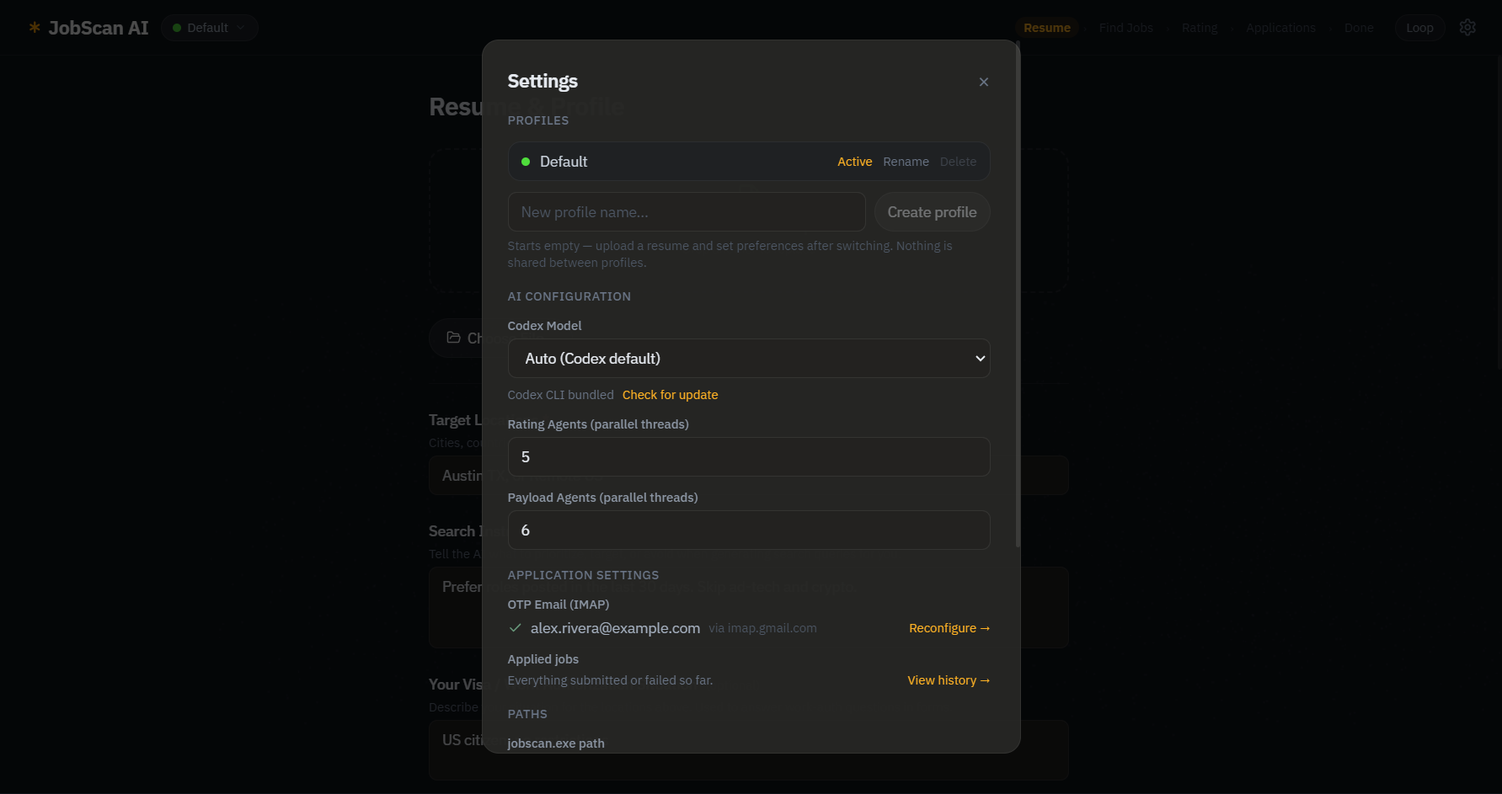
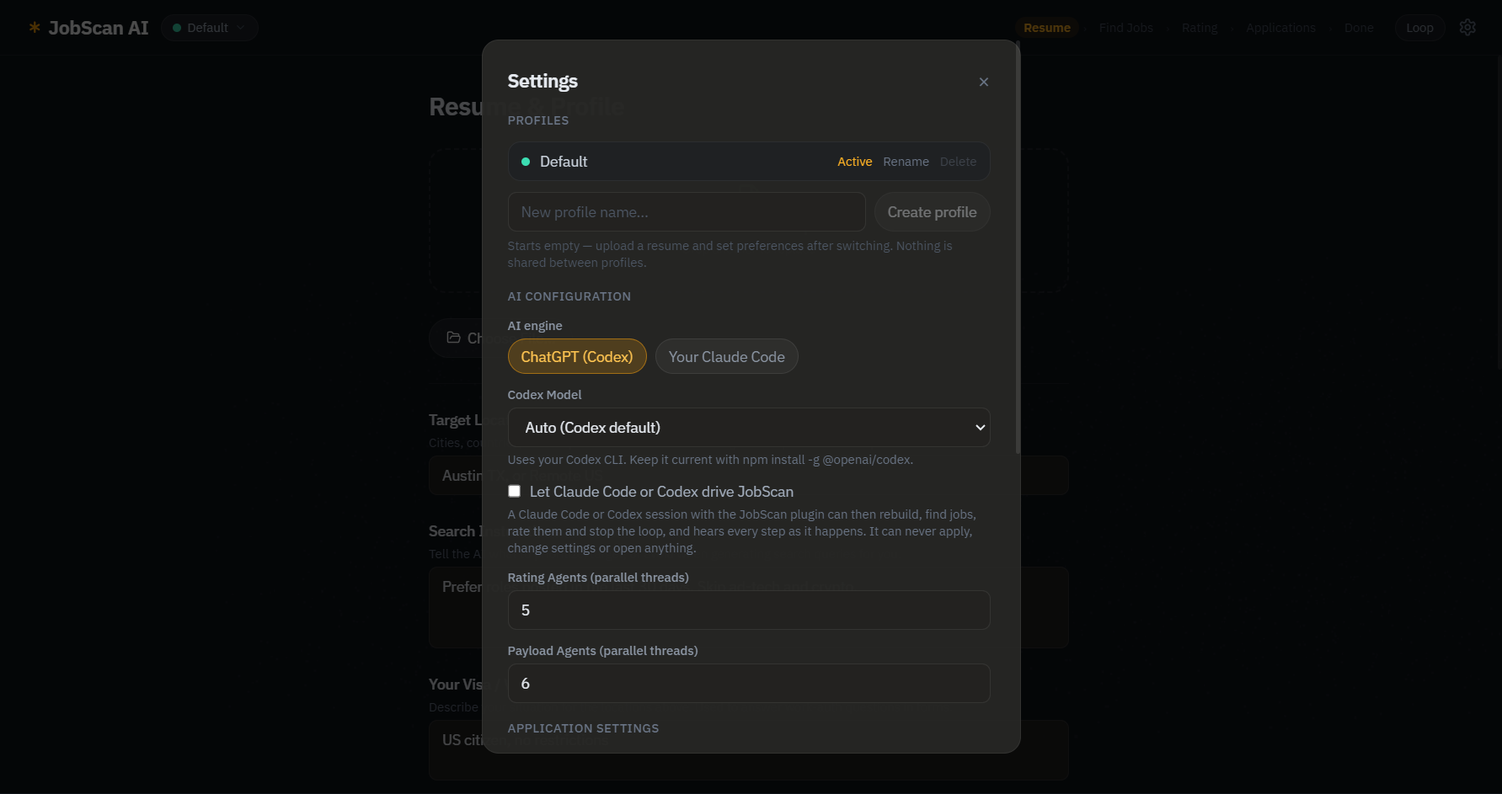
README: describe JobScan as it is now, with fresh screenshots
The README still read as a Codex-only app in many places. Checked against
the code, section by section:

- Tagline and "why it's different": the AI runs on ChatGPT (Codex CLI) or
  your own Claude Code; loop waits out AI limits; a new point on driving
  it from Claude Code or Codex, and on AGENTS.md; only your resume and
  JobScan's own cover letter can be uploaded.
- How it's built: the diagram shows the optional session and the plugin
  endpoint; a Plugin row; the "why your own CLI" notes cover Claude Code
  (one sealed run per call, ANTHROPIC_API_KEY removed, 5-minute limit).
- Find Jobs: each query is its own call carrying the earlier queries and
  what they added (true for both engines; there is no long-lived thread).
- Rating, answers, the sequence diagram and the agents note say "AI
  engine" instead of Codex. New "Only your own files go out" (upload_guard).
- Settings: rows in the panel's order; which Codex runs.
- Loop: Claude Code reports no usage windows, so with it the loop follows
  "try again in" or backs off; what counts as a broken setup; the
  panel's usage line is Codex-only.
- Section 13: the request after the command, progress notices, and the
  agent chip with a new screenshot (15-agent-chip.png).
- Cost table, test counts (48 unit files, 5 e2e specs, 15 Go, 27 Python),
  where things are kept (harness.json, AI sign-ins), environment
  variables (JOBSCAN_CLAUDE_BIN, CODEX_HOME, CLAUDE_CONFIG_DIR, the CDP
[…]

diff --git a/jobscan-app/scripts/readme-screenshots/readme-screenshots.spec.ts b/jobscan-app/scripts/readme-screenshots/readme-screenshots.spec.ts
@@ -6,10 +6,12 @@
  *   npx playwright test --config scripts/readme-screenshots/playwright.config.ts
  *
  * Every screen is rendered by the real app with SAMPLE data: a made-up
- * candidate and made-up companies. Nothing reaches Codex, jobscan or Chrome
- * (E2E_TEST=1), and the app runs on a throwaway data folder
- * (JOBSCAN_USER_DATA_DIR), so your own profile, resume and history are never
- * read or touched.
+ * candidate and made-up companies. Nothing reaches Codex, Claude Code,
+ * jobscan or Chrome (E2E_TEST=1), and the app runs on a throwaway data folder
+ * (JOBSCAN_USER_DATA_DIR) and Codex home, so your own profile, resume,
+ * history and sign-in are never read or touched. Codex counts as installed
+ * through the test stand-in (it is never asked anything), so the sign-in
+ * screen and Settings look the way they do for a user who has it.
  *
  * Screens whose state lives only in the main process (the rebuild progress,
  * loop mode, the IMAP status) are fed by swapping that one IPC handler for a
@@ -19,11 +21,13 @@ import { test, _electron as electron, ElectronApplication, Page } from '@playwri
 import path from 'path'
 import os from 'os'
 import fs from 'fs'
+import http from 'http'
 
 const APP_ROOT = path.resolve(__dirname, '..', '..')
 const OUT_DIR = path.resolve(APP_ROOT, '..', 'docs', 'screenshots')
 const DATA_DIR = fs.mkdtempSync(path.join(os.tmpdir(), 'jobscan-readme-shots-'))
 const CONFIG = path.join(DATA_DIR, 'config.json')
+const CODEX_STAND_IN = { command: process.execPath, args: [path.join(APP_ROOT, 'tests', 'unit', 'fixtures', 'fake-app-server.cjs')] }
 
 const W = 1440
 const H = 900
@@ -260,7 +264,10 @@ async function launch(): Promise<{ app: ElectronApplication; page: Page }> {
   const app = await electron.launch({
     args: [path.join(APP_ROOT, 'out', 'main', 'main.js')],
     cwd: APP_ROOT,
-    env: { ...process.env, E2E_TEST: '1', JOBSCAN_USER_DATA_DIR: DATA_DIR },
+    env: {
+      ...process.env, E2E_TEST: '1', JOBSCAN_USER_DATA_DIR: DATA_DIR,
+      CODEX_HOME: path.join(DATA_DIR, 'codex-home'), JOBSCAN_E2E_CODEX_COMMAND: JSON.stringify(CODEX_STAND_IN),
+    },
     timeout: 30_000,
   })
   const page = await app.firstWindow({ timeout: 20_000 })
@@ -288,6 +295,20 @@ async function seed(page: Page, p: Record<string, unknown>): Promise<void> {
   await page.waitForLoadState('domcontentloaded')
   await page.locator('header').waitFor({ state: 'visible', timeout: 15_000 })
   await page.waitForTimeout(900)   // screen entrance + ambient background settle
+}
+
+/** One authorised call to the app's harness endpoint, as the jobscan plugin makes it. */
+function harnessCall(method: string, route: string, body?: unknown): Promise<number> {
+  const { port, token } = JSON.parse(fs.readFileSync(path.join(DATA_DIR, 'harness.json'), 'utf-8')) as { port: number; token: string }
+  const data = body === undefined ? undefined : JSON.stringify(body)
+  return new Promise((resolve, reject) => {
+    const req = http.request({
+      host: '127.0.0.1', port, path: route, method,
+      headers: { authorization: `Bearer ${token}`, ...(data ? { 'content-type': 'application/json' } : {}) },
+    }, res => { res.resume(); res.on('end', () => resolve(res.statusCode ?? 0)) })
+    req.on('error', reject)
+    req.end(data)
+  })
 }
 
 async function shot(page: Page, name: string): Promise<void> {
@@ -418,6 +439,29 @@ test('screens', async () => {
     await page.locator('button[title="Loop mode"]').click()
     await page.waitForTimeout(500)
     await shot(page, '14-loop-panel')
+    await page.keyboard.press('Escape')
+
+    // 15 a Claude Code or Codex session driving JobScan: the header chip and its notes
+    await stub(app, 'loop:get-status', { ...LOOP_STATUS, phase: 'off', round: 0, stage: null, paused: [], excluded: [], history: [] })
+    let found = 0
+    await seed(page, {
+      ...BASE, appState: 'query_gen',
+      queryList: QUERIES.map((q, i) => ({ ...q, count: COUNTS[i] })),
+      queryGenResults: QUERIES.map((q, i) => { found += FOUND[i]; return { index: i, query: { ...q, count: COUNTS[i] }, found: FOUND[i], totalAfter: found } }),
+      candidates: POOL,
+    })
+    await page.evaluate(() => (window as unknown as { api: { invoke: (c: string, a?: unknown) => Promise<unknown> } }).api.invoke('harness:set', { enabled: true }))
+    for (let i = 0; i < 50 && !fs.existsSync(path.join(DATA_DIR, 'harness.json')); i++) await page.waitForTimeout(100)
+    for (const text of [
+      'Rebuilt the job database: 812 new jobs in 4 min.',
+      'Started Find Jobs from your resume.',
+      'Find Jobs is done: 6 searches, 362 jobs. They are being rated now; pick the ones you want in the window.',
+    ]) await harnessCall('POST', '/v1/notes', { text })
+    await harnessCall('GET', '/v1/status')
+    await page.getByRole('button', { name: /Agent connected/ }).waitFor({ timeout: 15_000 })
+    await page.getByRole('button', { name: /Agent connected/ }).click()
+    await page.waitForTimeout(500)
+    await shot(page, '15-agent-chip')
   } finally {
     await app.close()
   }

diff --git a/README.md b/README.md
@@ -4,7 +4,7 @@
 
 ### Your resume goes in. Rated jobs and submitted applications come out.
 
-**JobScan AI is a desktop app that searches about 13,700 company job boards, scores every match against your resume, and fills in and submits the applications you pick. It works in your own Chrome, and the AI runs on your own ChatGPT plan.**
+**JobScan AI is a desktop app that searches about 13,700 company job boards, scores every match against your resume, and fills in and submits the applications you pick. It works in your own Chrome, and the AI runs on the plan you already have: your ChatGPT account through the Codex CLI, or your own Claude Code.**
 
 No API key and no per-token bill. Search runs on your machine and costs no AI time at all.
 
@@ -44,8 +44,9 @@ No API key and no per-token bill. Search runs on your machine and costs no AI ti
 - **💸 Built to spend as little AI as possible.** Each run caps how many jobs it rates and remembers what it already scored. Forms are filled by ordinary code first, and the AI is called only to fix what that code could not. [Here's every cost decision](#-built-to-save-cost).
 - **🛡 Honest about what it can't do.** A CAPTCHA, or an email code that never arrives, doesn't count as a failure. The app marks the job **Needs you** and leaves the tab open, one click from done.
 - **📬 Reads email codes for you.** Greenhouse emails a security code after you submit. JobScan reads it from your mailbox over IMAP and types it in, even with several applications running at once.
-- **🔁 Runs unattended if you want.** Loop mode has a daily limit, a minimum time between rounds, and a score threshold. It pauses a job board that keeps showing CAPTCHAs, waits out Codex usage limits, and never re-applies to a job whose submission might already have gone in.
-- **🔒 Stored locally, sent only where it has to go.** Your resume, profile, history and mailbox settings live on your machine and are ignored by git. Two things leave it. Your resume, profile and the job postings go to the AI engine you chose (Codex under your ChatGPT account, or Claude Code under your Claude plan), so it can write queries, ratings and answers. Your answers and files go to the employers you apply to.
+- **🔁 Runs unattended if you want.** Loop mode has a daily limit, a minimum time between rounds, and a score threshold. It pauses a job board that keeps showing CAPTCHAs, waits out AI usage limits, and never re-applies to a job whose submission might already have gone in.
+- **🤖 Your Claude Code or Codex can drive it.** With the jobscan plugin, a Claude Code or Codex session can rebuild the database, find jobs, rate them and stop the loop while you talk to it, and it hears every step. It can't apply, and it never sees a job posting's text ([section 13](#13-let-claude-code-or-codex-drive-jobscan)). The repository also tells a fresh session how to set JobScan up for you ([AGENTS.md](AGENTS.md)).
+- **🔒 Stored locally, sent only where it has to go.** Your resume, profile, history and mailbox settings live on your machine and are ignored by git. Two things leave it. Your resume, profile and the job postings go to the AI engine you chose (Codex under your ChatGPT account, or Claude Code under your Claude plan), so it can write queries, ratings and answers. Your answers and files go to the employers you apply to, and the only files a form can get are your resume and the cover letter JobScan wrote for that job.
 
 ---
 
@@ -100,7 +101,7 @@ Each step is skipped when it is already up to date, so later starts are quick. R
 
 1. **Pick your AI and sign in** when the app asks: Codex (sign in with ChatGPT) or your own Claude Code.
 2. **Add your resume and profile.** That means target locations, work authorization, and the answers application forms ask for. The target location decides which markets the searches cover.
-3. **Find jobs.** The first database build downloads postings from about 13,700 public job boards into `jobscan/jobs.db`. It takes a while, and the database grows to a few GB.
+3. **Find jobs.** The first database build downloads postings from about 13,700 public job boards into `jobscan/jobs.db`. It takes several minutes (about 4 on a fast connection), and the database grows to about 2.5 GB.
 4. **Rate, pick and apply.** The app opens Chrome with its own profile (remote debugging on port 9222) and fills each form. Applications that need a CAPTCHA solved or other human input are left for you.
 5. **Optional: let your Claude Code or Codex session drive it.** Turn on **Settings → Let Claude Code or Codex drive JobScan**, install the jobscan plugin once, and ask the session to rebuild, find or rate jobs while you watch ([section 13](#13-let-claude-code-or-codex-drive-jobscan)). Applying always stays in the window.
 
@@ -110,7 +111,7 @@ Open Claude Code (`claude`) or Codex (`codex`) in the cloned folder and ask it t
 
 ### Try it without sending anything
 
-To watch the whole flow without sending anything, start the app with `JOB_AUTOMATOR_SUBMIT=0`. Every form is filled, and none is ever submitted.
+To watch the whole flow without sending anything, start the app with `JOB_AUTOMATOR_SUBMIT=0`. Every form is filled, and none is ever submitted. (`npm run dev` also opens DevTools next to the window; close it if you don't need it.)
 
 ```powershell
 # Windows (PowerShell)
@@ -155,9 +156,11 @@ flowchart LR
     Chrome["Your Chrome<br/>CDP :9222"]
     Mail["Your mailbox<br/>IMAP"]
     Boards["Greenhouse · Lever · Ashby<br/>public job-board APIs"]
+    Session["Optional: your Claude Code or Codex session<br/>jobscan plugin (MCP)"]
 
     Main -->|"spawn, JSON"| Go
-    Main <-->|"JSON-RPC over stdio"| Codex
+    Main <-->|"Codex: JSON-RPC over stdio<br/>Claude Code: one run per call"| Codex
+    Session -->|"status · 6 safe steps · notes<br/>127.0.0.1, token"| Main
     Fetch --> Boards
     Fetch --> DB
     Search --> DB
@@ -176,11 +179,13 @@ flowchart LR
 | **`jobscan` CLI** (`jobscan/cmd`, `jobscan/internal`) | Go | Downloading about 13,700 boards is a concurrency problem: hundreds of requests in flight, written into SQLite as they arrive. Go does that in one static binary, and the CLI works without the app. |
 | **Form filler** (`jobscan/job_application_automator`) | Python + Playwright over Chrome DevTools | Filling a form is browser automation. Playwright's Python API, attached to *your* Chrome over CDP, drives the three applicant-tracking systems with platform-specific code. |
 | **AI** | Your Codex CLI, or your Claude Code | Behind one interface (`electron/ai-engine.ts`). Codex: `codex app-server` over JSON-RPC, one long-lived process, a fresh read-only ephemeral thread per task. Claude Code: one isolated, tool-less `claude -p` run per task. Neither is bundled. |
+| **Plugin** (`jobscan-harness/`) | Node.js, no dependencies | Lets a Claude Code or Codex session drive the app: an MCP server with four tools, a skill, and (in Claude Code) a feed of notices. It talks only to the app's local endpoint, and only while you allow it in Settings. |
 
 <details>
-<summary><b>Why the app drives the Codex CLI instead of calling an API directly</b></summary>
+<summary><b>Why the app runs your own Codex or Claude Code instead of calling an API directly</b></summary>
 
-- **No key and no meter.** Signing in with ChatGPT means the work counts against a plan you already pay for, with nothing extra to set up or bill.
+- **No key and no meter.** Signing in with ChatGPT, or using the Claude Code you already have, means the work counts against a plan you already pay for, with nothing extra to set up or bill.
+- **Claude Code, one sealed run per call.** Each call is one `claude -p` run with no tools, no MCP servers, none of your settings, hooks, plugins or memory, one turn, in an empty private folder ([section 1](#1-sign-in)). `ANTHROPIC_API_KEY` is removed from that run's environment, so a stray API key can't quietly replace your Claude plan. A run that gives no reply within 5 minutes is stopped and counts as a failed call.
 - **One process, many threads.** `codex-client.ts` starts `codex app-server` once and keeps it running. Each query, rating batch or set of answers gets its own `thread/start` with `ephemeral: true`, `sandbox: "read-only"` and `approvalPolicy: "never"`, so no task ever sees another task's context. Turns run at `effort: "medium"` with `summary: "none"`, which skips paying for reasoning summaries nobody reads.
 - **Your own Codex, found where npm put it.** Nothing is bundled or downloaded: `codex-locate.ts` finds the native binary inside your global `@openai/codex` install (nested or flat npm layout) the way `codex.js` does, or uses the path you set in Settings. Keep it current with `npm install -g @openai/codex`; Settings shows the version in use. If you used an earlier JobScan, the Codex it downloaded for itself stays in use while it is newer than yours (or you have none), so upgrading never moves you to an older Codex; once yours catches up, yours is used.
 - **No console flash on Windows.** The app runs the native `codex.exe` directly rather than through the `codex.js` wrapper or the `.cmd` shim, so its `windowsHide` setting takes effect. It also runs a new binary once in a worker thread first (`binary-warmup.ts`): an antivirus scan of a never-seen `codex.exe` froze the window for 11 seconds before this fix.
@@ -207,7 +212,7 @@ flowchart TD
     O --> D
 ```
 
-Every stage stores a hash of its inputs. If you go **Back** and **forward** with nothing changed, the stage replays its saved result instead of running again. If an input changes (your resume, profile, the Codex model or a prompt), that stage and everything after it are cleared and run fresh. ([More on this](#-built-to-save-cost).)
+Every stage stores a hash of its inputs. If you go **Back** and **forward** with nothing changed, the stage replays its saved result instead of running again. If an input changes (your resume, profile, the AI engine or its model, or a prompt), that stage and everything after it are cleared and run fresh. ([More on this](#-built-to-save-cost).)
 
 ---
 
@@ -215,9 +220,9 @@ Every stage stores a hash of its inputs. If you go **Back** and **forward** with
 
 ### 1. Sign in
 
-<img src="docs/screenshots/01-sign-in.png" alt="Sign-in screen with a 'Login with ChatGPT' button" width="100%">
+<img src="docs/screenshots/01-sign-in.png" alt="Sign-in screen with a 'Login with ChatGPT' button and a 'Use your Claude Code instead' link" width="100%">
 
-With **ChatGPT (Codex)**, click **Login with ChatGPT**. The app runs your Codex CLI's `codex login`, which opens the ChatGPT sign-in page in your browser. When you come back, the app checks for `~/.codex/auth.json` and moves on to your profile. If the Codex CLI isn't installed, the screen says how to install it (`npm install -g @openai/codex`).
+With **ChatGPT (Codex)**, click **Login with ChatGPT**. The app runs your Codex CLI's `codex login`, which opens the ChatGPT sign-in page in your browser. When you come back, the app checks for `~/.codex/auth.json` (or `$CODEX_HOME/auth.json`) and moves on to your profile. If the Codex CLI isn't installed, the screen says how to install it (`npm install -g @openai/codex`).
 
 With **your Claude Code**, there is nothing to sign in to here: JobScan uses the Claude Code already signed in on this computer. If it isn't signed in, the screen tells you to run `claude` in a terminal and type `/login`, then **Check again**. Each screen links to the other engine.
 
@@ -297,7 +302,7 @@ All the searching happens against **`jobs.db`**, a local SQLite database built b
 
 This is the core idea of JobScan: **the AI decides *what* to search for, and the search itself runs locally on the database.**
 
-A Codex thread reads your resume, target locations and search instructions, and writes **one query at a time** as JSON (`{name, flags, description}`). The flags use the `jobscan search` syntax. The moment a query arrives, the app:
+The AI engine reads your resume, target locations and search instructions, and writes **one query at a time** as JSON (`{name, flags, description}`). Each query is its own call, and it carries every earlier query with how many new jobs that query added, so the model builds on what the pool already holds. The flags use the `jobscan search` syntax. The moment a query arrives, the app:
 
 1. **Checks it by running it.** The CLI parses the flags and returns the *live match count*. Bad JSON, unknown flags or Boolean syntax errors go straight back to the model with the exact error message, so it can fix the query (up to 3 retries).
 2. **Rejects useless queries.** `0` matches means "broaden it". Fewer than **40** matches means it's too narrow to deserve a slot, so the model gets **one** retry to widen it, and the second answer is accepted whatever it matches (a small platform or market may really be that thin). After 3 abandoned slots the run stops: a model failing that often is failing systematically.
@@ -354,7 +359,7 @@ That's why the query writer is told to aim for **about 200 matches per query**. 
 
 The **rating engine** runs in the background. It starts as soon as the first query adds jobs to the pool, so by the time you click **Evaluate Matches →** most of the jobs are already scored.
 
-- **Batches of 20 jobs per Codex call**, with **5 calls running at once** by default (change it in Settings → *Rating Agents*).
+- **Batches of 20 jobs per AI call**, with **5 calls running at once** by default (change it in Settings → *Rating Agents*). With Claude Code, that is five `claude -p` runs at a time.
 - Each job is shown with its title, company, location, workplace type, employment type, posted salary (if any), and the **first 4,000 characters** of its description.
 - Alongside it, a **candidate profile**: target locations, work authorization, sponsorship need, expected salary, clearance and your search instructions. It does **not** include your EEO answers.
 
@@ -407,7 +412,7 @@ sequenceDiagram
     participant App as Electron (agent)
     participant Go as jobscan apply
     participant Ex as Extractor (Python)
-    participant Cx as Codex
+    participant Cx as AI engine
     participant Fi as Filler (Python)
     participant Ch as Your Chrome
 
@@ -434,7 +439,7 @@ sequenceDiagram
 
 **Reading the form.** The platform-specific extractor opens the apply URL in your Chrome and records every field: its label, type, whether it's required, and its options. Forms are read one platform at a time, three at once. Long typeahead lists are sampled and marked `options_truncated`, so the answer writer knows the list isn't complete.
 
-**Writing the answers.** One Codex call per job, with the job's title, company and description, your profile and resume, and the field list. The rules it must follow came from real mistakes:
+**Writing the answers.** One AI call per job, with the job's title, company and description, your profile and resume, and the field list. The rules it must follow came from real mistakes:
 
 - **Dropdown answers are copied character for character** from the listed options, and the closest *category* is allowed when your exact answer isn't listed ("Applied Mathematics" → "Mathematics").
 - **Names are never approximated.** A school or employer that isn't in the list is never swapped for a similar-looking one. The model picks **Other** and types the real name in the follow-up box, or leaves the field empty. An empty answer is honest and you can fix it; a wrong school is a false statement that gets submitted.
@@ -444,6 +449,8 @@ sequenceDiagram
 - An answer set with **no answers at all** counts as a failed turn, not a hard form. It never gets filled from defaults alone.
 
 **Filling the form.** The filler types, selects, clicks and uploads, then **reads every value back**: three Ashby comboboxes once reported success on values that never actually took. "Yes/No" answers to checkboxes go through one shared conversion (`answer_values.py`), because `bool("No")` is `True` in Python and once ticked a sponsorship box the candidate had answered "No" to.
+
+**Only your own files go out.** A file field gets your resume, or a file JobScan wrote for that job (the cover letter), and nothing else (`upload_guard.py`). The answers are written by a model that has just read an untrusted posting, so a file path in its answers is dropped: a posting can't talk it into attaching your sign-in token, mailbox password or settings. This holds even with `JOB_AUTOMATOR_SUBMIT=0`, because a file is attached before anything is submitted.
 
 **Checking it submitted.** Every platform uses one shared check (`submission_signals.py`): **only past-tense confirmation counts**, like "application submitted" or "your application has been received". The future-tense "will be submitted" doesn't count, and neither does a bare "submit". A missed confirmation would send a finished application to the repair agent, which would apply a second time. A false one would record an application that never went in.
 
@@ -465,7 +472,7 @@ In a normal run, successful tabs close and unsuccessful ones **stay open** so yo
 <details>
 <summary><b>"6 agents", "5 slots", "up to 9 tabs": how the numbers fit together</b></summary>
 
-- **Payload agents (default 6, set in Settings).** These are concurrent workers in the app. Each one claims a job, asks Codex for answers and hands the filled payload to `jobscan apply submit`.
+- **Payload agents (default 6, set in Settings).** These are concurrent workers in the app. Each one claims a job, asks the AI engine for answers and hands the filled payload to `jobscan apply submit`.
 - **Fill slots (5, set in Go).** At most five jobs are *actively driving the browser* at once. A sixth submission waits for a slot. Jobs in the repair phase leave a `.recovery_active` marker and **don't count** against the five, because they mostly wait on the model, not the browser. A `filling` row untouched for 30 minutes is treated as dead and its slot is freed, so a crashed filler can never block the queue.
 - **Loop runs use at most 5 agents.** A loop job has a fill deadline. A job waiting for a slot would use up that deadline without ever starting, so loop runs never have more agents than slots.
 - **Up to 9 tabs** means six application agents plus three extractors.
@@ -538,13 +545,13 @@ The Done screen sorts the run into **Submitted**, **Needs you** (with **Finish i
 
 ### 11. Settings
 
-<img src="docs/screenshots/11-settings.png" alt="Settings panel: profiles, Codex model, rating and payload agent counts, OTP email, applied jobs, paths" width="100%">
+<img src="docs/screenshots/11-settings.png" alt="Settings panel: profiles, the AI engine (ChatGPT/Codex or your Claude Code), the Codex model and which Codex runs, the switch that lets Claude Code or Codex drive JobScan, rating and payload agent counts" width="100%">
 
 | Setting | What it does |
 |---|---|
 | **Profiles** | Create, rename, delete and switch personas. *A new profile starts empty: upload a resume and set preferences after switching.* Shared between profiles: the jobs database, agent counts, and the paths below. |
-| **Codex Model** | With Codex: **Auto (Codex default)** or any model your Codex sign-in offers. The list comes from the Codex CLI itself. Changing the model **invalidates cached queries, ratings and answers**, so the next run really uses the new model. The change applies from the next turn, without restarting Codex. |
 | **AI engine** | **ChatGPT (Codex)** or **Your Claude Code**. Switching is refused while anything runs or the loop is on. Switching engines re-runs cached searches and ratings with the new engine. |
+| **Codex Model** | With Codex: **Auto (Codex default)** or any model your Codex sign-in offers. The list comes from the Codex CLI itself. Changing the model **invalidates cached queries, ratings and answers**, so the next run really uses the new model. The change applies from the next turn, without restarting Codex. Below it, Settings says which Codex runs: your own, with its version, or the newer copy an earlier JobScan downloaded. |
 | **Claude model** | With Claude Code: its default, or `sonnet`, `opus`, `haiku` or any model id your Claude Code accepts. Part of the cache keys, like the Codex model. |
 | **Let Claude Code or Codex drive JobScan** | Lets a Claude Code or Codex session with the jobscan plugin start the safe steps and hear what happens ([section 13](#13-let-claude-code-or-codex-drive-jobscan)). Off by default. |
 | **Rating Agents** | Rating batches running at once (default **5**). Changes speed, not results, so it isn't part of any cache key. |
@@ -571,8 +578,8 @@ Changes apply from the next round. **Stop after this round** lets the current ro
 ```mermaid
 flowchart TD
     P{"Signed in? resume?<br/>saved searches? jobscan built?"} -- no --> STOP["Stop with reason"]
-    P -- yes --> L{"Codex limit hit?"}
-    L -- yes --> W["Wait until the 5-hour or weekly<br/>window resets, plus 2 min"]
+    P -- yes --> L{"AI usage limit hit?"}
+    L -- yes --> W["Wait until the limit resets<br/>(Codex: its 5-hour or weekly window, plus 2 min)"]
     L -- no --> RB["Rebuild database"]
     RB --> RG{"Resume / profile / model<br/>changed?"}
     RG -- yes --> NQ["Regenerate saved searches"]
@@ -596,12 +603,12 @@ flowchart TD
 - **Scores carry over.** A job rated under the same resume, profile, model and prompt keeps its score from round to round.
 - **Never twice.** A job is skipped if it was already applied to, if a normal run left it open for you (you may have finished it by hand), or if it was **excluded**. Exclusions cover CAPTCHA, needs a person, posting closed, a fill cut off mid-way, and a Submit with no confirmation, since that one may have gone in. Other failures get at most **2 attempts**.
 - **Paused after repeated CAPTCHAs.** Two CAPTCHAs on one platform with no submission between them pause that platform for **3 h**. The pause doubles on each repeat, up to **24 h**. Only a successful submission resets the count.
-- **Waits out Codex limits.** A usage limit stops the round, and the loop sleeps until the exhausted window (5-hour or weekly) resets, plus a 2-minute margin. If the reset time is unknown, it reads "try again in…" from the error, or backs off 1 → 2 → 4 → 8 → 16 → 24 h. A job board's own `429` is never mistaken for a Codex limit.
-- **Stops when the setup is broken.** A round counts as *failed* when Codex fails on every application, or when 3 or more applications all fail the way a broken setup does (for example, Chrome unreachable). **Three failed rounds in a row stop the loop.** A round that submitted anything never counts as failed. Attempts charged during a failed round are given back.
+- **Waits out usage limits.** A usage limit stops the round. With Codex, the loop reads your 5-hour and weekly windows and sleeps until the exhausted one resets, plus a 2-minute margin. Claude Code doesn't report its windows, so with it (and whenever the reset time is unknown) the loop reads "try again in…" from the error, or backs off 1 → 2 → 4 → 8 → 16 → 24 h. A job board's own `429` is never mistaken for an AI limit, and neither is a form that merely mentions Claude and a rate limit.
+- **Stops when the setup is broken.** A round counts as *failed* when the AI engine fails on every application (for example, Codex or Claude Code missing or signed out), or when 3 or more applications all fail the way a broken setup does (for example, Chrome unreachable). **Three failed rounds in a row stop the loop.** A round that submitted anything never counts as failed. Attempts charged during a failed round are given back.
 - **Time limits.** A round is capped at **3 hours** and a single fill at **25 minutes**.
 - **Keeps the system from suspending the app while it runs** (Electron `powerSaveBlocker`), and releases that hold when it stops.
 
-The panel also shows **today's count**, **Codex usage** (5-hour and weekly windows), **paused platforms**, the **jobs the loop will not pick again** (with reasons), and the **last rounds**: new, rated, picked, sent, failed, skipped, and a note such as *Codex usage limit*.
+The panel also shows **today's count**, **Codex usage** (5-hour and weekly windows, with the Codex engine), **paused platforms**, the **jobs the loop will not pick again** (with reasons), and the **last rounds**: new, rated, picked, sent, failed, skipped, and a note such as *Codex usage limit* or *Claude Code usage limit*.
 
 <img src="docs/screenshots/13-loop-chip.png" alt="Header chip reading 'Round 6 · Applying' while loop mode runs on the board" width="100%">
 
@@ -622,7 +629,11 @@ codex plugin add jobscan@jobscan
 
 From a local clone, give its folder instead of `tarunmovva/JobScanAI`.
 
-Then type `/jobscan:jobscan` in Claude Code, or `$jobscan:jobscan` in Codex. The session can do six things, each only where and when its button in the window works: **rebuild the job database**, **cancel a rebuild**, **find jobs**, **find more** ("remote Rust roles"), **rate the jobs**, and **stop the loop**. It hears every step, every click you make in the window and every AI call as short notices (Claude Code through the plugin's feed, Codex by waiting for them), and it can leave notes that appear in a chip in JobScan's header.
+Then type `/jobscan:jobscan` in Claude Code, or `$jobscan:jobscan` in Codex, followed by what you want ("rebuild the database and find me remote Rust roles"). The session can do six things, each only where and when its button in the window works: **rebuild the job database**, **cancel a rebuild**, **find jobs**, **find more** ("remote Rust roles"), **rate the jobs**, and **stop the loop**. It hears every step, its progress (boards fetched, jobs rated), every click you make in the window and every AI call as short notices (Claude Code through the plugin's feed, Codex by waiting for them), and it can leave notes for you.
+
+<img src="docs/screenshots/15-agent-chip.png" alt="The header chip reading 'Agent connected', open on the notes a Claude Code session left while it rebuilt the database and found jobs" width="100%">
+
+The chip in JobScan's header shows whether a session has been in touch in the last minute (**Agent connected**, or **Waiting for your agent**). Click it to read the session's notes and the steps it started.
 
 What it can't do is the point:
 
@@ -638,7 +649,7 @@ All AI usage counts against your plan (your Codex allowance, or your Claude plan
 
 | Where | What it does | Why it matters |
 |---|---|---|
-| **Search** | Codex writes the queries; **SQLite FTS5 runs them locally** | Retrieval costs no tokens. Thousands of postings are filtered without a model reading any of them. |
+| **Search** | The AI writes the queries; **SQLite FTS5 runs them locally** | Retrieval costs no tokens. Thousands of postings are filtered without a model reading any of them. |
 | **Pool budget** | At most **500 jobs or 10 queries**; ~200 matches per query is the target; under 40 matches is rejected | The pool size *is* the rating bill. |
 | **Top 100 per query, deduplicated, 3 per company** | Without this, 14–18% of every slice repeated a posting already seen, and one employer took 19 of 100 places | No paying to rate the same job twice, or twenty postings from one company. |
 | **Applied jobs filtered before the pool** | Removed before rating, not after | No tokens spent scoring a job you can't apply to. |
@@ -649,13 +660,13 @@ All AI usage counts against your plan (your Codex allowance, or your Claude plan
 | **Searches regenerated only when inputs change** | A rebuild alone doesn't trigger new queries | Saves the query-writing calls every loop round. |
 | **Prompt revisions in the cache key** | Bumping a prompt version invalidates only what that prompt produced | A prompt change never forces an unrelated stage to run again. |
 | **Settings that change speed only aren't in cache keys** | Agent counts change speed, not output | Changing them never throws away results. |
-| **Fresh read-only threads, `effort: medium`, `summary: none`** | Each task's context is isolated, and nobody pays for reasoning summaries | No context building up across tasks. |
+| **Every call starts clean** | Codex: a fresh read-only thread at `effort: medium` with `summary: none`. Claude Code: one turn, no tools, none of your settings or memory | No context building up across tasks, and nobody pays for reasoning summaries. |
 | **Ordinary code fills first; AI only to fix** | Most forms never touch the repair agent | The expensive path runs only where it's needed. |
 | **Focus dossier** | The repair agent starts with the exact broken controls | About 200 tokens instead of a 4,000–10,000-token page snapshot. |
 | **Purpose-built form tools** | 3 tools replace snapshot → click → snapshot loops | Generic calls took 7.3 s each, and snapshots were 51% of all tool output. |
 | **Past-tense confirmation check** | Correctly recognizes submitted pages | A missed "Thank you for applying" once triggered a 125k-token repair (and nearly a duplicate application). |
 | **Empty answer set = failed turn** | Never filled from defaults | One empty answer set once led to a 67 s repair on a form whose name and email had been left blank. |
-| **Codex limits waited out by reset time** | The loop sleeps until the window resets, not on a blind retry timer | No wasted retries against a limit. |
+| **Usage limits waited out** | With Codex, the loop sleeps until the window resets; otherwise it follows the error's "try again in", or backs off up to a day | No wasted retries against a limit. |
 | **Midnight wait** | When today's limit is used up, the next round waits for local midnight | No hourly rebuilds when nothing can be picked. |
 
 ---
@@ -669,7 +680,7 @@ A submitted application can't be undone, so the app's record of it must never be
 - **Quitting asks first.** Closing the app during a manual run asks whether to stop the run. Fillers used to keep going, and could submit, after the app had gone.
 - **A cut-off fill counts as possibly sent.** If a fill is stopped after it may have submitted, the filler's result file is checked, and the job is recorded as applied when it says so. That way nobody applies twice.
 - **A smooth window.** Bulk data (the job pools, about 3.3 MB each) lives in separate files next to `config.json`, and the parsed store is cached in memory. Before this, a single store read took about 85 ms on the window's thread and the board froze during runs. The history, which can't be rebuilt, stays in `config.json`, which is written atomically.
-- **Tested hard.** 40 unit-test files and 4 Playwright end-to-end specs for the app, 15 Go test files (including a concurrent-claim stress test) and 26 Python test files for the filler, on Windows and macOS in CI.
+- **Tested hard.** 48 unit-test files (the plugin's MCP server and feed included) and 5 Playwright end-to-end specs for the app (one runs the same searches and ratings through both AI engines and checks that they send identical prompts and get identical results), 15 Go test files (including a concurrent-claim stress test) and 27 Python test files for the filler, on Windows and macOS in CI.
 
 ---
 
@@ -710,6 +721,8 @@ cd jobscan
 | Settings, resume, profiles, applied-job history | `%APPDATA%\jobscan-app` (Windows), `~/Library/Application Support/jobscan-app` (macOS) |
 | Job database | `jobscan/jobs.db` |
 | Per-application records, the app's Chrome profile, one-time-code (OTP) secrets | `jobscan/.job-automator/` |
+| The plugin's connection file (`harness.json`: a port and a per-launch token), only while **Let Claude Code or Codex drive JobScan** is on | the app's data folder (first row) |
+| Your AI sign-in | Codex's own `~/.codex` (or `$CODEX_HOME`); Claude Code's own. JobScan stores neither. |
 
 All of these stay on your machine and are ignored by git. To try a separate setup without touching your profile and history, give the app its own data folder:
 
@@ -738,6 +751,9 @@ JOBSCAN_USER_DATA_DIR=~/jobscan-test npm run dev
 | `JOB_AUTOMATOR_RECOVERY_TIMEOUT` | seconds per repair attempt (default 720) |
 | `JOB_AUTOMATOR_OTP_TIMEOUT_SECONDS` | how long to wait for an emailed code (default 120) |
 | `JOBSCAN_CODEX_BIN` | the Codex CLI to run, when it isn't found on its own (Settings has the same) |
+| `JOBSCAN_CLAUDE_BIN` | the Claude Code to run, when it isn't found on its own (Settings has the same) |
+| `CODEX_HOME`, `CLAUDE_CONFIG_DIR` | Codex's and Claude Code's own settings for where their sign-in lives; JobScan's AI calls follow them |
+| `JOB_AUTOMATOR_CDP_PORT`, `JOB_AUTOMATOR_CDP_URL` | the Chrome debugging port (default 9222) and its URL, to run a second copy without touching the first one's Chrome |
 | `JOBSCAN_HARNESS_FILE` | for the jobscan plugin (Claude Code or Codex): the `harness.json` to use instead of the app's data folder. Set it when the app runs with `JOBSCAN_USER_DATA_DIR` |
 
 Set a variable in the terminal you start the app from, then run `npm run dev` in that same terminal:
@@ -778,11 +794,11 @@ go test ./...
 .venv\Scripts\python -m pytest tests
 ```
 
-A few tests skip on a fresh clone: they read local data (`jobscan/.job-automator/`, `jobscan/jobs.db`) that only exists after you have used the app.
+A few tests skip on a fresh clone: they read local data (`jobscan/.job-automator/`, `jobscan/jobs.db`) that only exists after you have used the app. Two plugin tests run only where the CLIs are installed (never on CI): `claude plugin validate --strict`, and a real `codex plugin` install into a throwaway `CODEX_HOME`.
 
 ### Regenerating the screenshots
 
-The images in `docs/screenshots/` come from a Playwright script that launches the real app on a throwaway data folder. It fills each screen with sample data and never calls Codex, `jobscan` or Chrome:
+The images in `docs/screenshots/` come from a Playwright script that launches the real app on a throwaway data folder. It fills each screen with sample data and never calls Codex, Claude Code, `jobscan` or Chrome:
 
 ```bash
 cd jobscan-app
